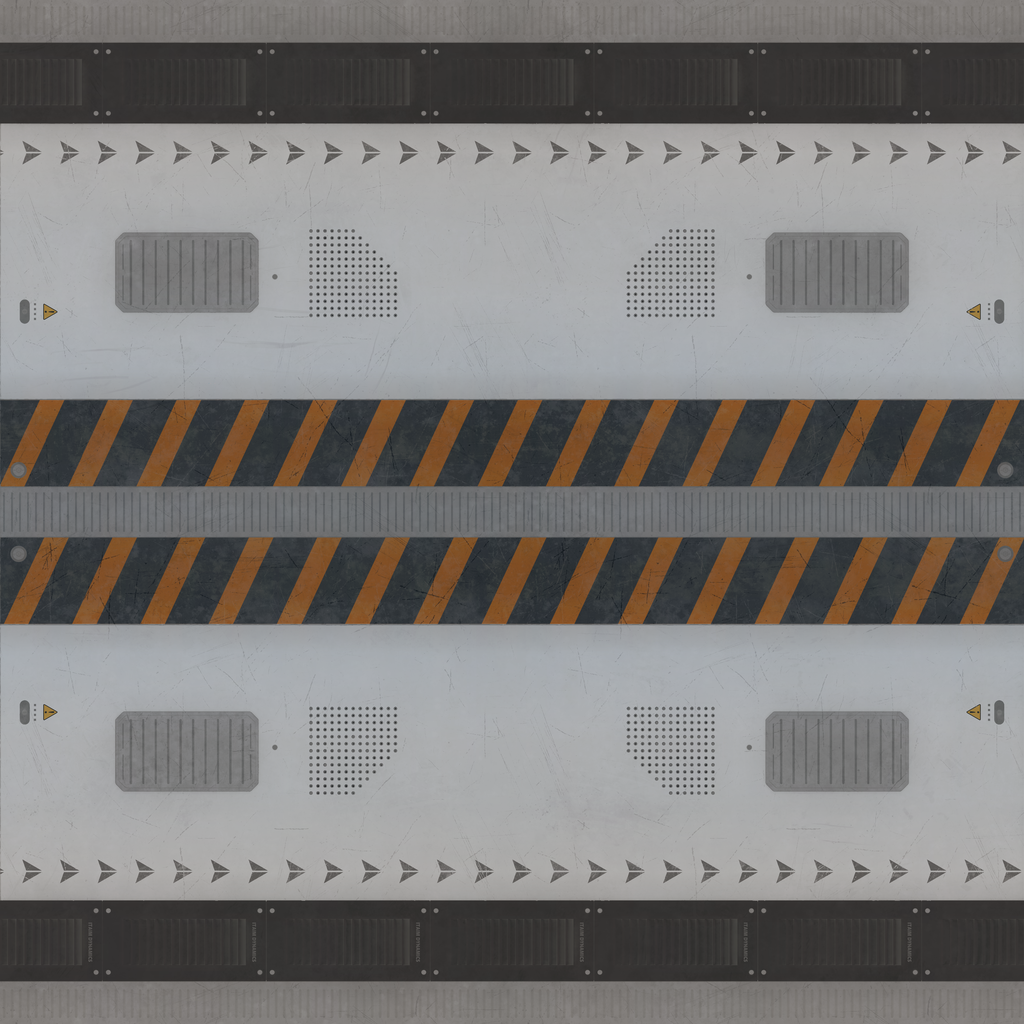
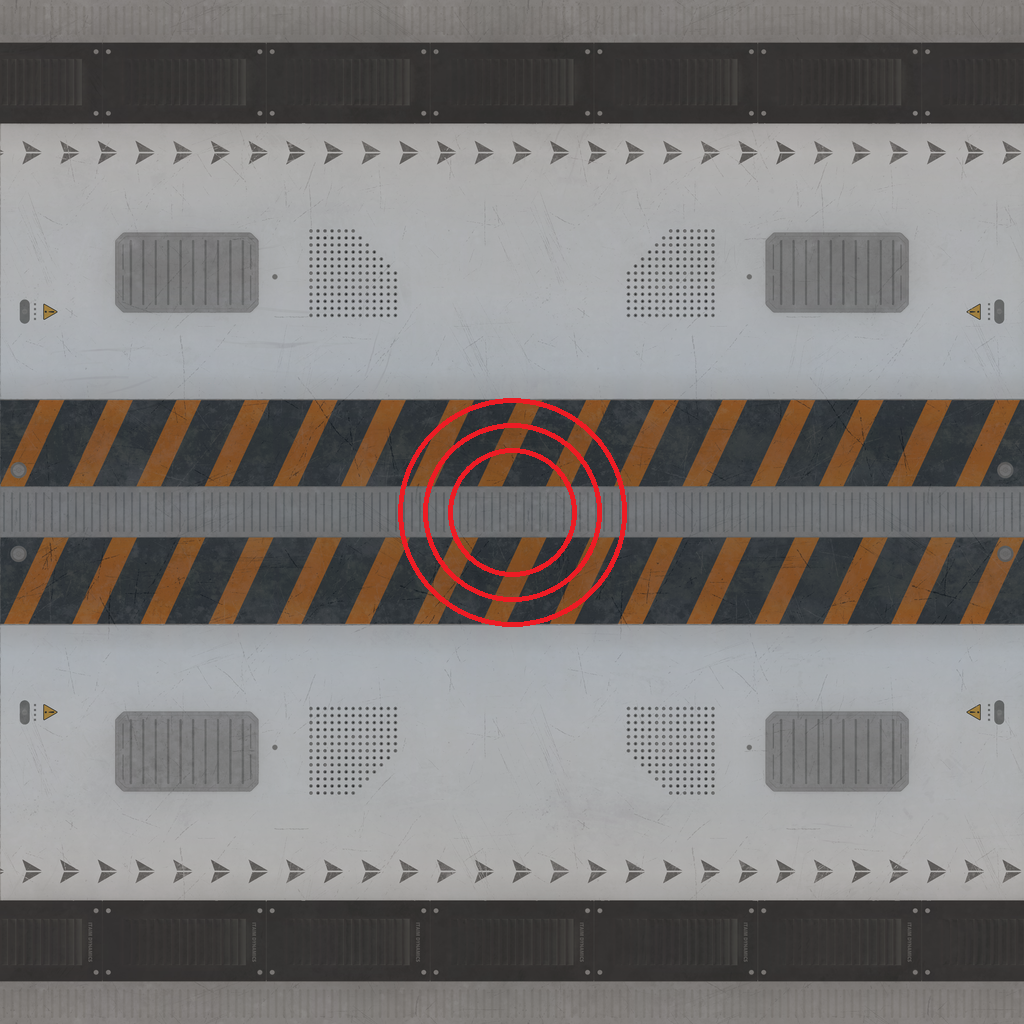
Best lines so far

Changed region(s): [[0.375, 0.375, 0.625, 0.625]]

diff --git a/render/src/state.rs b/render/src/state.rs
@@ -74,7 +74,7 @@ impl ViewState {
         let camera = Camera::new(
             point3(0.0, 0.0, 0.0),
             10.0,
-            500.0 * 2f64.sqrt(),
+            800.0 * 2f64.sqrt(),
             -Vec3::UNIT_Z,
             Vec3::UNIT_Y,
             deg(0.0),
